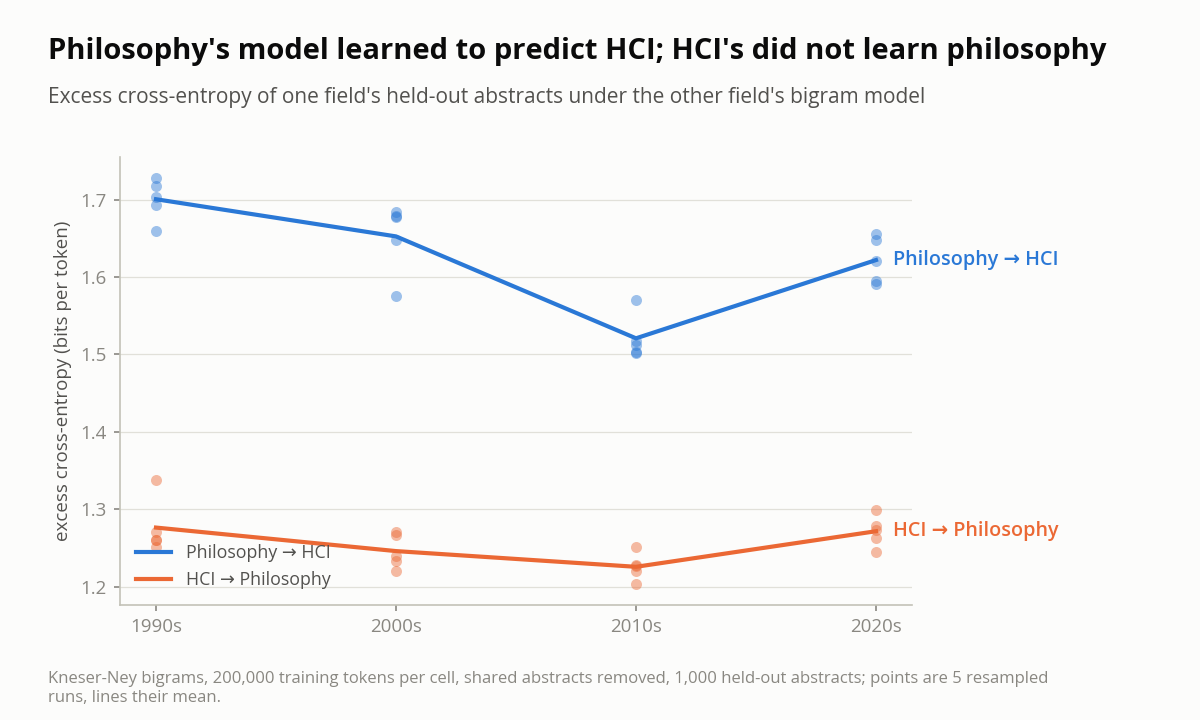
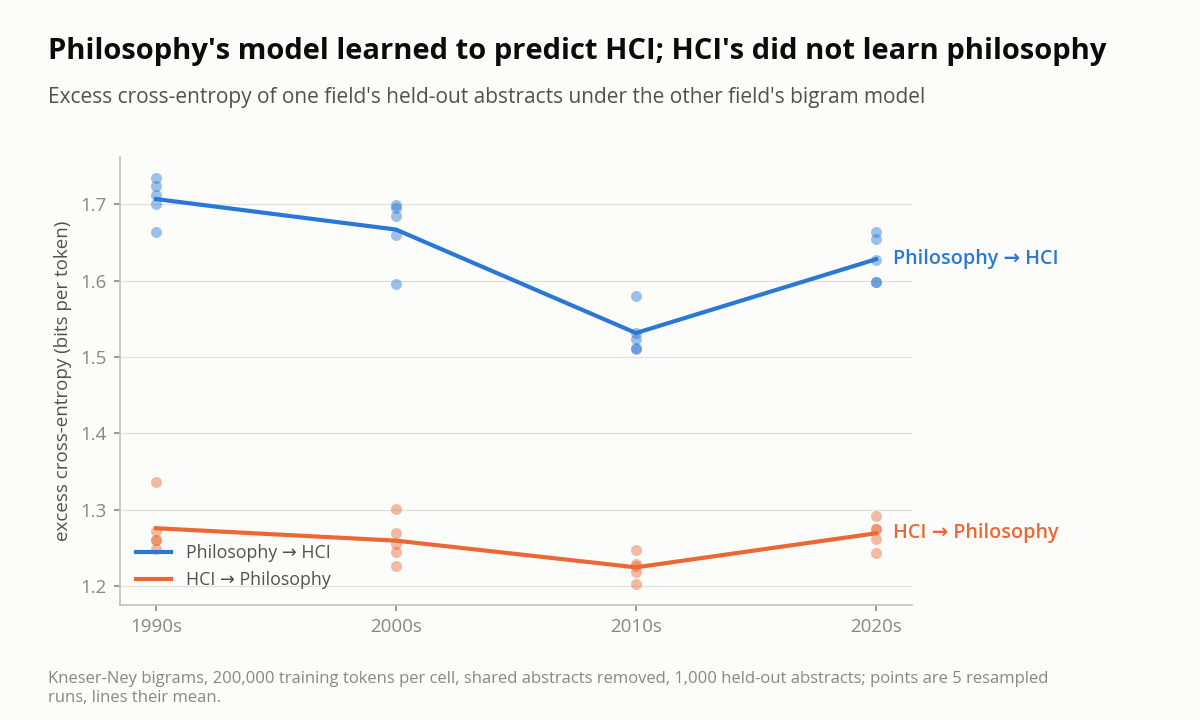
docs: score round 4 on the lemmatised corpus (9 passed, 2 falsified)
The robust findings survive in both seeds; information's convergence falls under
its threshold and moves to not robust; L1's vocabulary and pool thresholds were
wrong about the instrument. Figures regenerated from the lemmatised grid.

diff --git a/README.md b/README.md
@@ -4,7 +4,7 @@
 
 `interpretant` measures how academic communities change what they do with a word. It trains one word-embedding model per field and decade on a grid of research abstracts (eleven fields, 1950s–2020s) and two centuries of canonical books, puts every model in one coordinate system, and judges each word's movement against the movement of the whole vocabulary. Every claim is tested against predictions committed to git before the evidence existed.
 
-Two findings have survived a second training seed, a second method and pre-registered tests. **_Embodiment_ means two different things**: virtual reality's sense of body ownership in HCI, phenomenological corporeality in philosophy. And **philosophy's language model came to predict HCI's abstracts better over thirty years, while HCI's model did not learn philosophy's language**.
+Two findings have survived a second training seed, a second method, a lemmatised rebuild of the corpus and pre-registered tests. **_Embodiment_ means two different things**: virtual reality's sense of body ownership in HCI, phenomenological corporeality in philosophy. And **philosophy's language model came to predict HCI's abstracts better over thirty years, while HCI's model did not learn philosophy's language**.
 
 ![Nearest neighbours of embodiment in philosophy and HCI, by decade](figures/embodiment.png)
 
@@ -12,30 +12,31 @@ Two findings have survived a second training seed, a second method and pre-regis
 
 ## Findings
 
-Results are tested against predictions committed before the evidence: three rounds on the embedding models (the trained models; a second seed with unseen decades and field pairs; a second, count-based method) and four rounds on cross-perplexity. Every prediction and every miss is in [`docs/predictions.md`](docs/predictions.md) and [`docs/predictions_cross_perplexity.md`](docs/predictions_cross_perplexity.md); the story is in [devlog 04](devlogs/04.md).
+Results are tested against predictions committed before the evidence: four rounds on the embedding models (the trained models; a second seed with unseen decades and field pairs; a second, count-based method; the corpus rebuilt with plurals and British spellings collapsed) and four rounds on cross-perplexity. Every prediction and every miss is in [`docs/predictions.md`](docs/predictions.md) and [`docs/predictions_cross_perplexity.md`](docs/predictions_cross_perplexity.md); the story is in [devlog 04](devlogs/04.md).
 
 **Robust across seeds and methods**
 
-- **_Embodiment_ means two different things.** In HCI it is virtual reality's sense of body ownership and presence (neighbours: _ownership, presence, illusion, self-location, agency_); in philosophy it is phenomenological corporeality (_corporeality, intersubjectivity, temporality, spatiality_). The word is now about three times as frequent in HCI as in philosophy.
-- **_Intentionality_ is stable** in philosophy from the 1980s to the 2020s.
-- **Philosophy's language model came to predict HCI's abstracts better, and not the reverse.** From the 1990s to the 2020s, robust to shared abstracts, training size and five resampled runs. The effect is specific to HCI, and its cause is open: neither HCI borrowing philosophy's language nor philosophy broadening into technology survived testing.
+- **_Embodiment_ means two different things.** In HCI it is virtual reality's sense of body ownership and presence (neighbours: _ownership, presence, illusion, immersion, self-location_); in philosophy it is phenomenological corporeality (_corporeality, intersubjectivity, temporality, spatiality, affectivity_). It passed every test it faced: unseen decades, a second seed, a second method, and the lemmatised corpus in both seeds. The word is now about three times as frequent in HCI as in philosophy.
+- **_Intentionality_ is stable** in philosophy from the 1980s to the 2020s, under both methods and in both seeds of the lemmatised corpus.
+- **Philosophy's language model came to predict HCI's abstracts better, and not the reverse.** From the 1990s to the 2020s, robust to shared abstracts, training size, five resampled runs and the lemmatised corpus. The effect is specific to HCI, and its cause is open: neither HCI borrowing philosophy's language nor philosophy broadening into technology survived testing.
+- **Fields converged between the 1980s and the 2010s**, and **a subfield's model predicts its parent field better than the reverse** (AI → computer science, cognitive psychology → psychology): both first seen as reversed predictions, then predicted and confirmed on the lemmatised corpus.
 
 ![Excess cross-entropy between philosophy and HCI, 1990s to 2020s](figures/philosophy_hci.png)
 
 **Robust in part**
 
-- _Representation_ in AI moves towards learned representations (_embeddings, latent, contrastive, encoder_) in every run; its symbolic 1980s (_knowledge, declarative, frame-based_) holds in TWEC only.
-- HCI's _affordance_ is about experiential qualities (_physicality, qualities, interactivity_) in the 2010s in every run; the 2020s depend on the method.
+- _Representation_ in AI moves towards learned representations (_embedding, latent, encoder, learned_) in every run including the lemmatised one; its symbolic 1980s (_knowledge, reasoning, declarative_) holds in TWEC only.
+- HCI's _affordance_ is about experiential qualities (_physicality, experiential, interactivity, materiality_) in the 2010s in every run; the 2020s depend on the method.
+- Philosophy's 2020s _consciousness_ moves (a candidate under TWEC in both corpora); the lemmatised neighbours carry both earlier readings at once, computational vocabulary (_computational, substrate, information_processing_) and theories of consciousness (_qualia, sentience_).
 
 ![Nearest neighbours of representation in AI, 1980s, 2000s and 2020s](figures/representation_ai.png)
 
 **Open**
 
-- _Information_ converging between psychology and computer science appears with TWEC, not with PPMI-SVD.
-- Philosophy's 2020s _consciousness_ shifts under both methods, described as computational by one and as theories of consciousness (_IIT, global workspace_) by the other.
-- Fields may be converging rather than specialising: with equal training, the mean cross-perplexity between fields fell from the 1980s to the 2010s in every run. It was observed in the data that tested the opposite prediction, so it needs its own test.
+- _Information_ converging between psychology and computer science: seen in both unlemmatised TWEC seeds, absent in PPMI-SVD, and under the committed threshold on the lemmatised corpus. Not robust.
+- The cause of the one-sided philosophy → HCI effect.
 
-My guesses before each round were worse than the method. Round 1 passed 3 of 9 predictions; the misses, stated as predictions, passed on unseen evidence in round 2 (7 of 9). The predictions files record every miss and every correction of an interpretation.
+My guesses before each round were worse than the method. Round 1 passed 3 of 9 predictions; the misses, stated as predictions, passed on unseen evidence in round 2 (7 of 9); round 4, on the lemmatised corpus, passed 9 of 11, and one of its misses was a wrong guess about the instrument itself (neighbour pools shrank when frequent plurals merged, instead of growing). The predictions files record every miss and every correction of an interpretation.
 
 ---
 
@@ -71,6 +72,8 @@ flowchart TD
 Every question here compares something specific, one field across decades or several fields in the same decade, so the corpus is a grid of cells, one per field and decade, each built the same way. The design and its rationale are in [`docs/corpus.md`](docs/corpus.md).
 
 ![Research abstracts per field and decade cell](figures/corpus_grid.png)
+
+Regular plurals and British spellings are collapsed before training (`corpus lemmas`); verbs, participles and _-ing_ nominalisations are left alone, because a general lemmatiser turns _learning_ into _learn_. The unlemmatised grid remains on disk as the frozen evidence for rounds 1–3.
 
 **The OpenAlex grid** (about 677,000 abstracts): a seeded random sample of up to 10,000 English research abstracts per field and decade, 1950s–2020s, for eleven fields sharing OpenAlex's single topic taxonomy. Only research prose is kept (articles, reviews, book chapters, books, dissertations, conference papers); archive catalogue records, scraped web pages, duplicates and non-English text are removed, and no author may exceed 1% of a cell.
 

diff --git a/docs/predictions.md b/docs/predictions.md
@@ -348,3 +348,38 @@ this round uses them.
 `scripts/score_predictions_round4.py`, committed before the lemmatised corpus exists, scores
 L0–L7 and prints the evidence for each. Results are appended below after the run; the
 predictions above are not edited.
+
+## Round 4 results (2026-11-09, `scripts/score_predictions_round4.py`)
+
+Scored as written on the lemmatised grid (seeds 42 and 43, `data/drift/*.parquet`,
+`data/phrased/audit.json`). 6 passed, 2 falsified; L8–L10 are scored in
+`predictions_cross_perplexity.md`.
+
+| | Verdict | Numbers |
+|---|---|---|
+| L0 | **Passed** | Control candidates 0.4% (within field; worst *forest*, 1 pair) and 0.3% (cross field; worst *home*, 3 pairs); *food* in 1 cross-field pair |
+| L1 | **Falsified** | Vocabulary shrink: median 8.4%, minimum 4.1%; 37 main-grid and books cells between 6.0% and 8.0%, under the 8% floor (none under 4%). Neighbour pools (words with at least 50 occurrences) shrank instead of growing: −11.4% and −11.7% (philosophy 2010s, 2020s), −12.5% and −12.6% (HCI) |
+| L2 | **Passed** | Both seeds: HCI 2020s 5 of the VR set (*illusion, immersion, ownership, presence, self-location*); philosophy 2020s 6 of the phenomenological set (*affectivity, corporeality, embodied, intersubjectivity, spatiality, temporality*) |
+| L3 | **Passed** | No candidate transition in either seed; highest cosine rank 93 (seed 42, 2000s → 2010s) with shift rank 5 |
+| L4 | **Passed** | 1980s 2 of the symbolic set (*knowledge, reasoning*); 2010s 3 and 2020s 5 of the learned set (*embedding, encoder, feature, latent, learned*) |
+| L5 | **Passed** | 5 of the experiential set (*experiential, interactivity, materiality, physicality, sensorial*) |
+| L6 | **Falsified** | Cross-field cosine rank, psychology × computer science: 38 and 23 (1960s, 1970s), 12 and 24 (2000s, 2010s); early mean 30, late mean 18, gap 13, under 15 |
+| L7 | **Passed** | Philosophy 2010s → 2020s cosine rank 99, shift rank 96, a candidate; 2020s neighbours *qualia, conscious, cognition, mind, computational, computation, reality, substrate, information_processing, neural, substrate-independent, intelligence, informational, nonlocal, sentience* |
+
+### Reading
+
+- **Lemmatisation changed the instrument less than expected, and in one respect the other way.**
+  Vocabularies shrank by 4–10%, not the 8%+ predicted for the main grid, because many plural
+  types had no singular in the cell to merge into. The neighbour pools shrank by about 12%
+  rather than growing: when both *structure* and *structures* clear 50 occurrences, merging them
+  removes a pool member, and that outweighs the rare words the merge lifted over the threshold.
+  L1's reasoning was wrong, and the prediction is reported as falsified; the mapping itself did
+  what it was built to do (8.3% of tokens, no wrong merge found in review).
+- **The findings survive.** *Embodiment*'s two senses, *intentionality*'s stability,
+  *representation*'s move from symbolic to learned and HCI's experiential *affordance* all pass
+  on the lemmatised grid, the first two in both seeds. Philosophy's 2020s *consciousness* is a
+  candidate again, and its lemmatised neighbours carry both earlier readings at once (*qualia,
+  substrate, computational, information_processing, sentience*).
+- ***Information*'s convergence is not robust.** It appeared in both unlemmatised TWEC seeds and
+  not in PPMI-SVD; on the lemmatised grid the gap is 13 points, under the committed 15. It moves
+  to the not-robust list.

diff --git a/ROADMAP.md b/ROADMAP.md
@@ -2,8 +2,11 @@
 
 ## State (November 2026)
 
-The corpus was rebuilt as a field × decade grid, trained twice, checked with a second method
-and with cross-perplexity, and scored against predictions committed before the evidence. The
+The corpus was rebuilt as a field × decade grid, lemmatised (plurals and British spellings),
+trained twice, checked with a second method and with cross-perplexity, and scored against
+predictions committed before the evidence (four rounds on the embeddings, four on
+cross-perplexity). The unlemmatised artefacts rounds 1–3 were scored on stay under
+`*_unlemmatised` paths. The
 history of the redesign is in [devlog 04](devlogs/04.md) and [`docs/corpus.md`](docs/corpus.md).
 
 ### Corpus
@@ -29,15 +32,16 @@ Target words: `data/words_of_interest.txt` (fixed before retraining). Controls:
 ### Findings
 
 Scored in [`docs/predictions.md`](docs/predictions.md) (rounds 1–3) and
-[`docs/predictions_cross_perplexity.md`](docs/predictions_cross_perplexity.md) (C, D, F, H).
+[`docs/predictions_cross_perplexity.md`](docs/predictions_cross_perplexity.md) (C, D, F, H, L8–L10).
 
 - Robust: *embodiment*'s two senses (HCI, philosophy); *intentionality* stable in
-  philosophy; philosophy's model predicting HCI's abstracts better over time, one-sided.
+  philosophy; philosophy's model predicting HCI's abstracts better over time, one-sided;
+  fields converging between the 1980s and the 2010s; the subfield → parent asymmetry.
 - Robust in part: *representation* in AI towards learned representations; HCI's
-  experiential *affordance* in the 2010s.
-- Open: *information* converging between psychology and computer science (TWEC only);
-  philosophy's 2020s *consciousness* (described differently by each method); fields
-  converging between the 1980s and the 2010s; the subfield → parent asymmetry.
+  experiential *affordance* in the 2010s; philosophy's 2020s *consciousness* (a candidate
+  under TWEC in both corpora, described differently by each method).
+- Not robust: *information* converging between psychology and computer science.
+- Open: the cause of the philosophy → HCI effect.
 
 ---
 
@@ -45,12 +49,7 @@ Scored in [`docs/predictions.md`](docs/predictions.md) (rounds 1–3) and
 
 Each item that produces results gets its predictions committed first.
 
-1. **Lemmatise the corpus** as a fourth robustness round. The models are not lemmatised, so
-   *structure* and *structures* are separate words: vocabularies are inflated, frequencies
-   split (fewer words clear the 150-occurrence threshold), and neighbour lists are padded with
-   variants. Build a type-level lemma and spelling map once from the vocabulary, apply it at
-   ingest as `TARGET_VARIANTS` is applied today, re-run phrases, TWEC (two seeds), PPMI, drift
-   and cross-perplexity, and score the existing findings against the lemmatised grid.
+1. ~~Lemmatise the corpus~~ Done 2026-11-09 as round 4 (`docs/predictions.md`).
 2. **Library-first orchestration and a `predictions` package.** Move the grid, perplexity and
    TWEC loops out of `__main__.py` into the library with tests on synthetic cells; replace the
    seven `score_*.py` scripts' shared helpers with one module. GitHub Actions running ruff,

diff --git a/docs/predictions_cross_perplexity.md b/docs/predictions_cross_perplexity.md
@@ -296,3 +296,21 @@ E(AI → computer science) < E(computer science → AI) and E(cognitive psycholo
 (the reversal observed in D1, now predicted). *Falsified* if either pair falls short.
 
 Scored by `scripts/score_predictions_round4.py`. Results are appended below after the run.
+
+### Round 4 results (2026-11-09, `scripts/score_predictions_round4.py`)
+
+Scored as written on the lemmatised corpus. 3 passed.
+
+| | Verdict | Numbers (seeds 1–5) |
+|---|---|---|
+| L8 | **Passed** | Change 1990s → 2020s in E(philosophy → HCI): −0.071, −0.103, −0.066, −0.057, −0.097; in E(HCI → philosophy): +0.014, +0.001, −0.045, +0.002, −0.005, smaller in absolute value in every seed |
+| L9 | **Passed** | Mean excess over 10 fields, 2010s minus 1980s: −0.050, −0.049, −0.040, −0.059, −0.056 |
+| L10 | **Passed** | AI → computer science below the reverse in 6 of 6 decades; cognitive psychology → psychology below the reverse in 6 of 6 |
+
+### Reading
+
+The one-sided philosophy → HCI effect, the convergence of fields between the 1980s and the
+2010s, and the subfield → parent asymmetry all hold on the lemmatised corpus with values within
+a few thousandths of a bit of the unlemmatised run. The convergence and the asymmetry, first seen
+as reversals of D5 and D1, are now predicted results. The cause of the philosophy → HCI effect
+remains open.

diff --git a/docs/methods.md b/docs/methods.md
@@ -20,7 +20,7 @@ American ones (rules gated on simplemma's lexicon, an exception list and the Ame
 own corpus frequency). Verbs, participles and *-ing* nominalisations stay as they are, because
 a general lemmatiser maps *learning* to *learn* and *embedding* to *embed*. The map is written
 to `data/processed/lemmas.tsv` for review; the hand-kept part is `data/lemma_overrides.tsv`.
-Round 4 of the predictions tests which findings survive this change.
+Round 4 of the predictions tested which findings survive this change: all of the robust ones did; *information*'s convergence did not.
 
 `corpus phrases learn` fits one gensim `Phrases` model (normalised PMI ≥ 0.5, minimum count 20)
 on a balanced sample of 300,000 tokens from every cell, so the large modern cells do not decide
